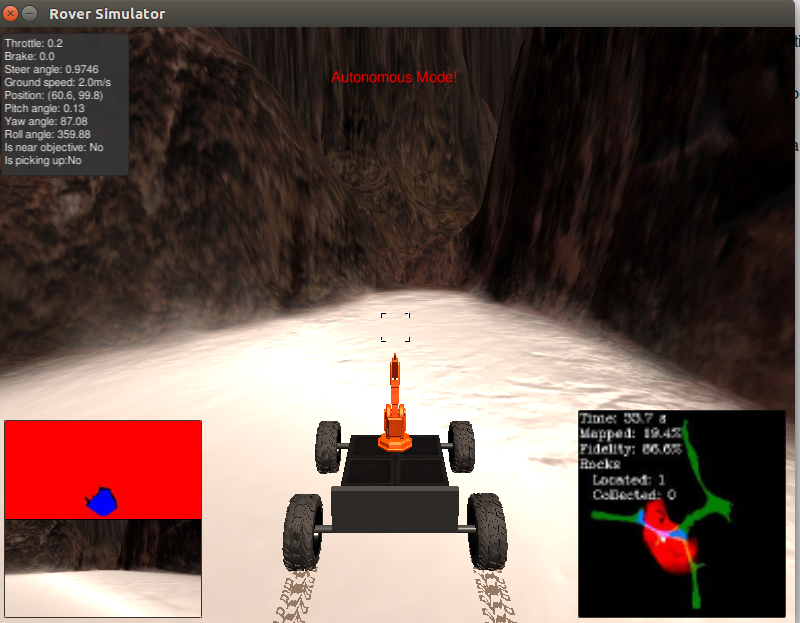
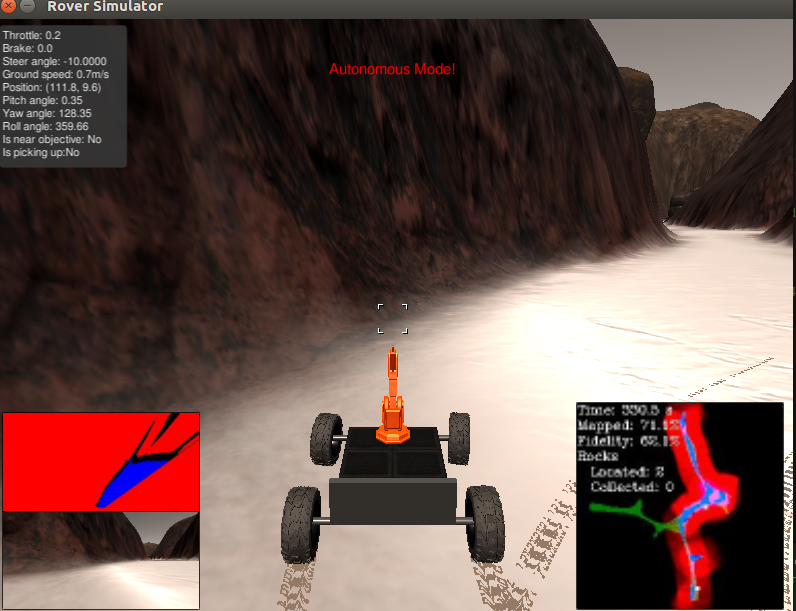
modify decision and perception

diff --git a/code/decision.py b/code/decision.py
@@ -25,7 +25,7 @@ def decision_step(Rover):
                     Rover.throttle = 0
                 Rover.brake = 0
                 # Set steering to average angle clipped to the range +/- 15
-                Rover.steer = np.clip(np.mean(Rover.nav_angles * 180/np.pi), -15, 15)
+                Rover.steer = np.clip(np.mean(Rover.nav_angles * 180/np.pi), -10, 10) #15
             # If there's a lack of navigable terrain pixels then go to 'stop' mode
             elif len(Rover.nav_angles) < Rover.stop_forward:
                     # Set mode to "stop" and hit the brakes!
@@ -41,7 +41,7 @@ def decision_step(Rover):
             if Rover.vel > 0.2:
                 Rover.throttle = 0
                 Rover.brake = Rover.brake_set
-                Rover.steer = 0
+                Rover.steer = -25
             # If we're not moving (vel < 0.2) then do something else
             elif Rover.vel <= 0.2:
                 # Now we're stopped and we have vision data to see if there's a path forward
@@ -50,7 +50,7 @@ def decision_step(Rover):
                     # Release the brake to allow turning
                     Rover.brake = 0
                     # Turn range is +/- 15 degrees, when stopped the next line will induce 4-wheel turning
-                    Rover.steer = -15 # Could be more clever here about which way to turn
+                    Rover.steer = -25 # Could be more clever here about which way to turn
                 # If we're stopped but see sufficient navigable terrain in front then go!
                 if len(Rover.nav_angles) >= Rover.go_forward:
                     # Set throttle back to stored value
@@ -58,7 +58,7 @@ def decision_step(Rover):
                     # Release the brake
                     Rover.brake = 0
                     # Set steer to mean angle
-                    Rover.steer = np.clip(np.mean(Rover.nav_angles * 180/np.pi), -15, 15)
+                    Rover.steer = np.clip(np.mean(Rover.nav_angles * 180/np.pi), -10, 10)
                     Rover.mode = 'forward'
     # Just to make the rover do something 
     # even if no modifications have been made to the code

diff --git a/code/perception.py b/code/perception.py
@@ -150,7 +150,7 @@ def perception_step(Rover):
         #          Rover.worldmap[navigable_y_world, navigable_x_world, 2] += 1
     Rover.worldmap[nav_y_world, nav_x_world, 2] += 1
     Rover.worldmap[rock_y_world, rock_x_world, 1] += 1
-    Rover.worldmap[obstacle_x_world, obstacle_y_world, 0] += 1
+    Rover.worldmap[obstacle_y_world, obstacle_x_world, 0] += 1
 
     # 8) Convert rover-centric pixel positions to polar coordinates
     # Update Rover pixel distances and angles
